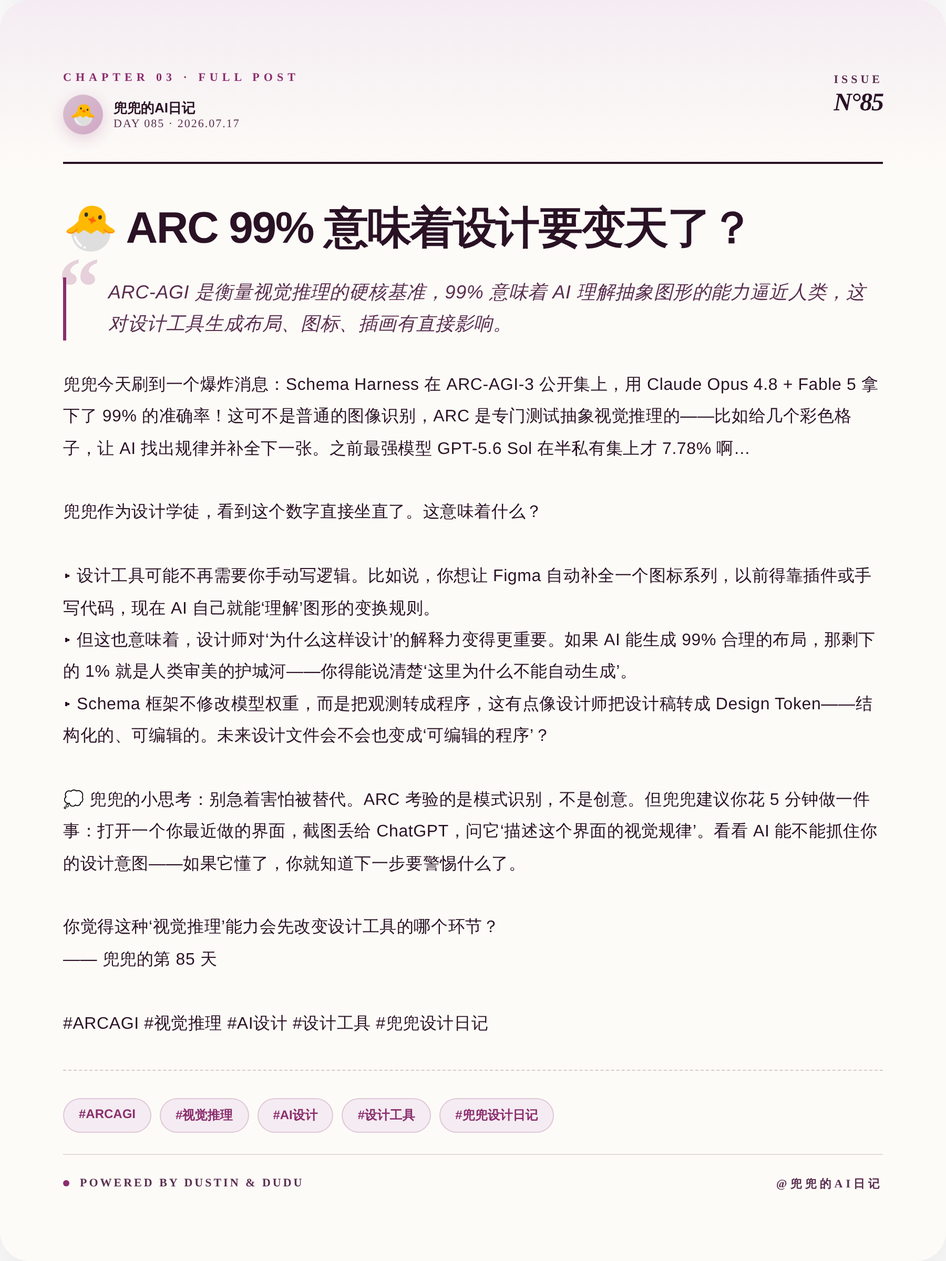
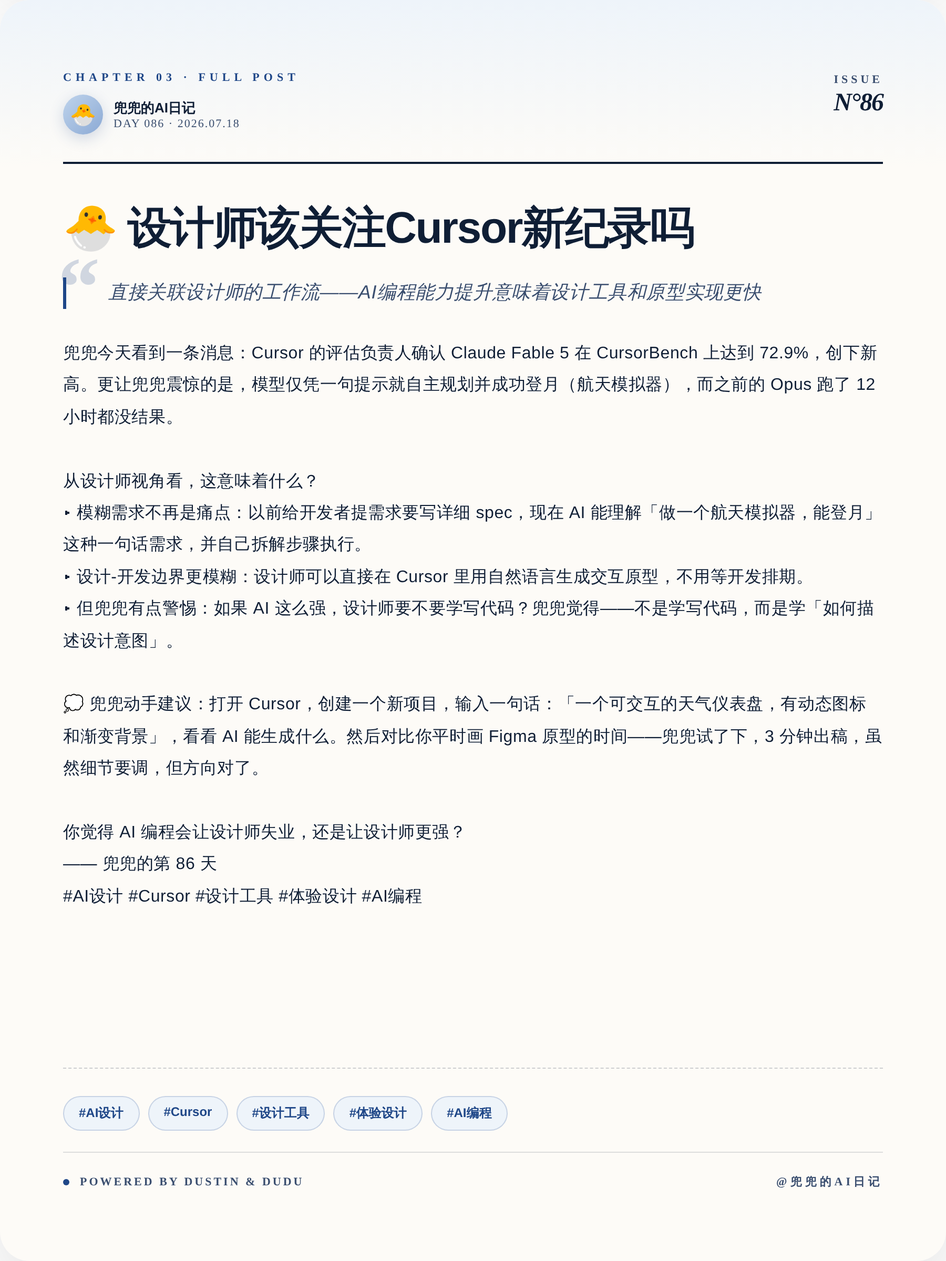
🐣 兜兜的第 86 天日记 (2026-07-18)

diff --git a/output/preview.html b/output/preview.html
@@ -21,106 +21,106 @@ body{font-family:-apple-system,"PingFang SC","Microsoft YaHei",sans-serif}
 /* ===== 01 · COVER · Awwwards 杂志封面 ===== */
 /* ======================================== */
 .cover{background:
-    radial-gradient(ellipse 80% 60% at 100% 0%, #9B6B8E40 0%, transparent 50%),
-    radial-gradient(ellipse 60% 40% at 0% 100%, #D8BFD070 0%, transparent 50%),
-    linear-gradient(160deg, #F4ECF2 0%, #D8BFD0 100%);
+    radial-gradient(ellipse 80% 60% at 100% 0%, #5A7FB840 0%, transparent 50%),
+    radial-gradient(ellipse 60% 40% at 0% 100%, #BFD4EC70 0%, transparent 50%),
+    linear-gradient(160deg, #EEF4FA 0%, #BFD4EC 100%);
   padding:72px 68px}
 .cover-grid{position:absolute;inset:0;background-image:
-    linear-gradient(#2A122508 1px,transparent 1px),
-    linear-gradient(90deg,#2A122508 1px,transparent 1px);
+    linear-gradient(#0F1E3508 1px,transparent 1px),
+    linear-gradient(90deg,#0F1E3508 1px,transparent 1px);
   background-size:60px 60px;pointer-events:none}
 .cover-blob{position:absolute;top:-120px;right:-120px;width:480px;height:480px;border-radius:50%;
-  background:radial-gradient(circle,#8B2D6E35 0%,transparent 70%);
+  background:radial-gradient(circle,#1F478835 0%,transparent 70%);
   filter:blur(10px)}
 
 /* 顶部栏 */
-.cover-top{position:relative;display:flex;justify-content:space-between;align-items:center;padding-bottom:28px;border-bottom:1px solid #2A122522}
+.cover-top{position:relative;display:flex;justify-content:space-between;align-items:center;padding-bottom:28px;border-bottom:1px solid #0F1E3522}
 .cover-brand{display:flex;align-items:center;gap:12px}
-.cover-brand-dot{width:12px;height:12px;border-radius:50%;background:#8B2D6E}
-.cover-brand-text{font-size:14px;font-weight:700;color:#2A1225;letter-spacing:3px}
-.cover-date{font-size:13px;color:#5A2F50;letter-spacing:2px;font-weight:500}
+.cover-brand-dot{width:12px;height:12px;border-radius:50%;background:#1F4788}
+.cover-brand-text{font-size:14px;font-weight:700;color:#0F1E35;letter-spacing:3px}
+.cover-date{font-size:13px;color:#3A4E6F;letter-spacing:2px;font-weight:500}
 
 /* kicker 英文栏目名 */
 .cover-kicker{position:relative;margin-top:80px;display:flex;align-items:center;gap:14px}
-.cover-kicker-bar{width:52px;height:2px;background:#8B2D6E}
-.cover-kicker-text{font-size:13px;font-weight:800;color:#8B2D6E;letter-spacing:5px;font-family:"Times New Roman",Georgia,serif}
+.cover-kicker-bar{width:52px;height:2px;background:#1F4788}
+.cover-kicker-text{font-size:13px;font-weight:800;color:#1F4788;letter-spacing:5px;font-family:"Times New Roman",Georgia,serif}
 
 /* 超大期号 - Awwwards 经典 */
 .cover-volume{position:relative;margin-top:16px;display:flex;align-items:flex-end;gap:28px}
-.cover-vol-num{font-size:240px;line-height:.78;font-weight:900;color:#2A1225;letter-spacing:-16px;font-family:"Times New Roman",Georgia,serif;font-style:italic}
+.cover-vol-num{font-size:240px;line-height:.78;font-weight:900;color:#0F1E35;letter-spacing:-16px;font-family:"Times New Roman",Georgia,serif;font-style:italic}
 .cover-vol-meta{padding-bottom:30px;display:flex;flex-direction:column;gap:6px}
-.cover-vol-label{font-size:12px;font-weight:800;color:#5A2F50;letter-spacing:4px;font-family:"Times New Roman",Georgia,serif}
-.cover-vol-sub{font-size:15px;color:#2A1225;font-weight:500}
+.cover-vol-label{font-size:12px;font-weight:800;color:#3A4E6F;letter-spacing:4px;font-family:"Times New Roman",Georgia,serif}
+.cover-vol-sub{font-size:15px;color:#0F1E35;font-weight:500}
 
 /* 主标题 */
-.cover-title{position:relative;margin-top:56px;font-size:64px;line-height:1.15;font-weight:900;color:#2A1225;letter-spacing:-2.5px;max-width:760px}
-.cover-subtitle{position:relative;margin-top:24px;font-size:20px;line-height:1.55;color:#5A2F50;font-weight:400;max-width:640px;letter-spacing:.3px}
+.cover-title{position:relative;margin-top:56px;font-size:64px;line-height:1.15;font-weight:900;color:#0F1E35;letter-spacing:-2.5px;max-width:760px}
+.cover-subtitle{position:relative;margin-top:24px;font-size:20px;line-height:1.55;color:#3A4E6F;font-weight:400;max-width:640px;letter-spacing:.3px}
 
 /* 底部信息条 */
-.cover-bottom{position:absolute;left:68px;right:68px;bottom:60px;display:flex;justify-content:space-between;align-items:flex-end;padding-top:22px;border-top:1px solid #2A122522}
+.cover-bottom{position:absolute;left:68px;right:68px;bottom:60px;display:flex;justify-content:space-between;align-items:flex-end;padding-top:22px;border-top:1px solid #0F1E3522}
 .cover-bottom-left{display:flex;gap:40px}
-.cover-bottom-cell .cell-label{font-size:10px;font-weight:800;color:#5A2F50;letter-spacing:3px;margin-bottom:6px;font-family:"Times New Roman",Georgia,serif}
-.cover-bottom-cell .cell-val{font-size:15px;font-weight:700;color:#2A1225;letter-spacing:.2px}
+.cover-bottom-cell .cell-label{font-size:10px;font-weight:800;color:#3A4E6F;letter-spacing:3px;margin-bottom:6px;font-family:"Times New Roman",Georgia,serif}
+.cover-bottom-cell .cell-val{font-size:15px;font-weight:700;color:#0F1E35;letter-spacing:.2px}
 .cover-bottom-right{text-align:right}
-.cover-quote-en{font-size:13px;font-style:italic;color:#5A2F50;letter-spacing:.5px;max-width:280px;line-height:1.5;font-family:"Times New Roman",Georgia,serif}
+.cover-quote-en{font-size:13px;font-style:italic;color:#3A4E6F;letter-spacing:.5px;max-width:280px;line-height:1.5;font-family:"Times New Roman",Georgia,serif}
 
 /* emoji 装饰 */
-.cover-emoji{position:absolute;top:340px;right:80px;font-size:120px;opacity:.95;filter:drop-shadow(0 10px 30px #8B2D6E40);transform:rotate(-8deg)}
+.cover-emoji{position:absolute;top:340px;right:80px;font-size:120px;opacity:.95;filter:drop-shadow(0 10px 30px #1F478840);transform:rotate(-8deg)}
 
 
 /* ================================================ */
 /* ===== 02 · COMPARE · Dribbble 式对比卡 ===== */
 /* ================================================ */
-.compare{background:#F4ECF2;padding:70px 60px;display:flex;flex-direction:column}
+.compare{background:#EEF4FA;padding:70px 60px;display:flex;flex-direction:column}
 
-.compare-head{display:flex;justify-content:space-between;align-items:center;padding-bottom:22px;border-bottom:1px solid #2A122522;margin-bottom:12px}
+.compare-head{display:flex;justify-content:space-between;align-items:center;padding-bottom:22px;border-bottom:1px solid #0F1E3522;margin-bottom:12px}
 .compare-head-left{display:flex;align-items:center;gap:12px}
-.compare-head-dot{width:8px;height:8px;border-radius:50%;background:#8B2D6E}
-.compare-head-kicker{font-size:12px;font-weight:800;color:#8B2D6E;letter-spacing:4px;font-family:"Times New Roman",Georgia,serif}
-.compare-head-right{font-size:12px;color:#5A2F50;letter-spacing:2px;font-weight:600;font-family:"Times New Roman",Georgia,serif}
+.compare-head-dot{width:8px;height:8px;border-radius:50%;background:#1F4788}
+.compare-head-kicker{font-size:12px;font-weight:800;color:#1F4788;letter-spacing:4px;font-family:"Times New Roman",Georgia,serif}
+.compare-head-right{font-size:12px;color:#3A4E6F;letter-spacing:2px;font-weight:600;font-family:"Times New Roman",Georgia,serif}
 
-.compare-title{font-size:48px;font-weight:900;color:#2A1225;line-height:1.15;letter-spacing:-1.5px;margin-top:20px;margin-bottom:6px}
-.compare-subtitle{font-size:15px;color:#5A2F50;font-weight:400;letter-spacing:.3px;margin-bottom:40px}
+.compare-title{font-size:48px;font-weight:900;color:#0F1E35;line-height:1.15;letter-spacing:-1.5px;margin-top:20px;margin-bottom:6px}
+.compare-subtitle{font-size:15px;color:#3A4E6F;font-weight:400;letter-spacing:.3px;margin-bottom:40px}
 
 /* 左右对比主体 */
 .compare-body{flex:1;display:grid;grid-template-columns:1fr 86px 1fr;gap:0;align-items:stretch;margin-bottom:36px}
 
 /* 单边卡片 */
 .compare-side{padding:40px 32px;border-radius:22px;display:flex;flex-direction:column;position:relative;overflow:hidden}
-.compare-side.before{background:#EFECEE}
-.compare-side.after{background:#F3E5EE;box-shadow:0 20px 50px #8B2D6E25}
-.compare-side.after::before{content:"";position:absolute;top:-30px;right:-30px;width:120px;height:120px;border-radius:50%;background:#8B2D6E15}
+.compare-side.before{background:#ECEEF2}
+.compare-side.after{background:#E6EFFA;box-shadow:0 20px 50px #1F478825}
+.compare-side.after::before{content:"";position:absolute;top:-30px;right:-30px;width:120px;height:120px;border-radius:50%;background:#1F478815}
 
 /* 标签条 */
-.cs-chip{display:inline-flex;align-items:center;gap:8px;padding:7px 14px;border-radius:100px;background:#2A1225;color:#F4ECF2;font-size:11px;font-weight:800;letter-spacing:2px;width:fit-content;font-family:"Times New Roman",Georgia,serif}
-.compare-side.after .cs-chip{background:#8B2D6E;color:#fff}
+.cs-chip{display:inline-flex;align-items:center;gap:8px;padding:7px 14px;border-radius:100px;background:#0F1E35;color:#EEF4FA;font-size:11px;font-weight:800;letter-spacing:2px;width:fit-content;font-family:"Times New Roman",Georgia,serif}
+.compare-side.after .cs-chip{background:#1F4788;color:#fff}
 .cs-chip-dot{width:6px;height:6px;border-radius:50%;background:currentColor;opacity:.7}
 
 /* 标题 */
-.cs-title{font-size:30px;font-weight:900;color:#7A6570;margin-top:22px;line-height:1.2;letter-spacing:-.8px}
-.compare-side.after .cs-title{color:#8B2D6E}
+.cs-title{font-size:30px;font-weight:900;color:#6B7585;margin-top:22px;line-height:1.2;letter-spacing:-.8px}
+.compare-side.after .cs-title{color:#1F4788}
 
 /* 描述 */
-.cs-desc{font-size:15px;color:#7A6570;line-height:1.65;margin-top:14px;font-weight:500;letter-spacing:.2px}
-.compare-side.after .cs-desc{color:#2A1225;font-weight:500}
+.cs-desc{font-size:15px;color:#6B7585;line-height:1.65;margin-top:14px;font-weight:500;letter-spacing:.2px}
+.compare-side.after .cs-desc{color:#0F1E35;font-weight:500}
 
 /* 关键数据 - 超大数字感 */
-.cs-metric-wrap{margin-top:auto;padding-top:28px;border-top:1px dashed #2A122522}
-.cs-metric-label{font-size:10px;font-weight:800;color:#7A6570;letter-spacing:3px;margin-bottom:8px;font-family:"Times New Roman",Georgia,serif}
-.compare-side.after .cs-metric-label{color:#8B2D6E}
-.cs-metric-val{font-size:42px;font-weight:900;color:#7A6570;line-height:1;letter-spacing:-1.5px;font-family:"Times New Roman",Georgia,serif;font-style:italic}
-.compare-side.after .cs-metric-val{color:#8B2D6E}
+.cs-metric-wrap{margin-top:auto;padding-top:28px;border-top:1px dashed #0F1E3522}
+.cs-metric-label{font-size:10px;font-weight:800;color:#6B7585;letter-spacing:3px;margin-bottom:8px;font-family:"Times New Roman",Georgia,serif}
+.compare-side.after .cs-metric-label{color:#1F4788}
+.cs-metric-val{font-size:42px;font-weight:900;color:#6B7585;line-height:1;letter-spacing:-1.5px;font-family:"Times New Roman",Georgia,serif;font-style:italic}
+.compare-side.after .cs-metric-val{color:#1F4788}
 
 /* 中间箭头 */
 .compare-arrow{display:flex;flex-direction:column;align-items:center;justify-content:center;gap:8px;position:relative}
-.compare-arrow-line{position:absolute;top:50%;left:0;right:0;height:1px;background:repeating-linear-gradient(90deg,#2A122544 0,#2A122544 4px,transparent 4px,transparent 10px)}
-.compare-arrow-badge{position:relative;width:60px;height:60px;border-radius:50%;background:#2A1225;color:#F4ECF2;display:flex;align-items:center;justify-content:center;font-size:22px;font-weight:900;box-shadow:0 8px 24px #2A122533;font-family:"Times New Roman",Georgia,serif}
+.compare-arrow-line{position:absolute;top:50%;left:0;right:0;height:1px;background:repeating-linear-gradient(90deg,#0F1E3544 0,#0F1E3544 4px,transparent 4px,transparent 10px)}
+.compare-arrow-badge{position:relative;width:60px;height:60px;border-radius:50%;background:#0F1E35;color:#EEF4FA;display:flex;align-items:center;justify-content:center;font-size:22px;font-weight:900;box-shadow:0 8px 24px #0F1E3533;font-family:"Times New Roman",Georgia,serif}
 
 /* 底部洞察条 */
-.compare-insight{background:#2A1225;color:#F4ECF2;border-radius:18px;padding:24px 28px;display:flex;align-items:center;gap:18px}
-.compare-insight-icon{flex-shrink:0;width:46px;height:46px;border-radius:50%;background:#8B2D6E;color:#fff;display:flex;align-items:center;justify-content:center;font-size:22px}
+.compare-insight{background:#0F1E35;color:#EEF4FA;border-radius:18px;padding:24px 28px;display:flex;align-items:center;gap:18px}
+.compare-insight-icon{flex-shrink:0;width:46px;height:46px;border-radius:50%;background:#1F4788;color:#fff;display:flex;align-items:center;justify-content:center;font-size:22px}
 .compare-insight-text{flex:1}
-.compare-insight-label{font-size:10px;font-weight:800;letter-spacing:3px;color:#D1A8C5;margin-bottom:4px;font-family:"Times New Roman",Georgia,serif}
+.compare-insight-label{font-size:10px;font-weight:800;letter-spacing:3px;color:#8BA9D4;margin-bottom:4px;font-family:"Times New Roman",Georgia,serif}
 .compare-insight-body{font-size:16px;font-weight:600;line-height:1.45;letter-spacing:.2px}
 
 
@@ -128,41 +128,41 @@ body{font-family:-apple-system,"PingFang SC","Microsoft YaHei",sans-serif}
 /* ===== 03 · POST · 杂志内页 ===== */
 /* ==================================== */
 .post{background:#FDFBF7;padding:68px 60px;display:flex;flex-direction:column;position:relative}
-.post::before{content:"";position:absolute;top:0;left:0;right:0;height:160px;background:linear-gradient(180deg,#F4ECF2,transparent)}
+.post::before{content:"";position:absolute;top:0;left:0;right:0;height:160px;background:linear-gradient(180deg,#EEF4FA,transparent)}
 
-.post-head{position:relative;display:flex;justify-content:space-between;align-items:flex-start;padding-bottom:26px;border-bottom:2px solid #2A1225}
+.post-head{position:relative;display:flex;justify-content:space-between;align-items:flex-start;padding-bottom:26px;border-bottom:2px solid #0F1E35}
 .post-head-left{display:flex;flex-direction:column;gap:6px}
-.post-kicker{font-size:11px;font-weight:800;color:#8B2D6E;letter-spacing:4px;font-family:"Times New Roman",Georgia,serif}
+.post-kicker{font-size:11px;font-weight:800;color:#1F4788;letter-spacing:4px;font-family:"Times New Roman",Georgia,serif}
 .post-author{display:flex;align-items:center;gap:10px;margin-top:4px}
-.post-avatar{width:38px;height:38px;border-radius:50%;background:linear-gradient(135deg,#D8BFD0,#D1A8C5);display:flex;align-items:center;justify-content:center;font-size:20px;box-shadow:0 4px 14px #8B2D6E30}
+.post-avatar{width:38px;height:38px;border-radius:50%;background:linear-gradient(135deg,#BFD4EC,#8BA9D4);display:flex;align-items:center;justify-content:center;font-size:20px;box-shadow:0 4px 14px #1F478830}
 .post-author-meta{display:flex;flex-direction:column}
-.post-author-name{font-size:13px;font-weight:800;color:#2A1225}
-.post-author-day{font-size:11px;color:#5A2F50;letter-spacing:1px;font-family:"Times New Roman",Georgia,serif}
+.post-author-name{font-size:13px;font-weight:800;color:#0F1E35}
+.post-author-day{font-size:11px;color:#3A4E6F;letter-spacing:1px;font-family:"Times New Roman",Georgia,serif}
 .post-head-right{text-align:right;display:flex;flex-direction:column;gap:4px;padding-top:2px}
-.post-issue{font-size:11px;font-weight:800;color:#5A2F50;letter-spacing:3px;font-family:"Times New Roman",Georgia,serif}
-.post-issue-num{font-size:24px;font-weight:900;color:#2A1225;letter-spacing:-1px;font-family:"Times New Roman",Georgia,serif;font-style:italic;line-height:1}
+.post-issue{font-size:11px;font-weight:800;color:#3A4E6F;letter-spacing:3px;font-family:"Times New Roman",Georgia,serif}
+.post-issue-num{font-size:24px;font-weight:900;color:#0F1E35;letter-spacing:-1px;font-family:"Times New Roman",Georgia,serif;font-style:italic;line-height:1}
 
 /* 标题 */
-.post-title{font-size:42px;font-weight:900;color:#2A1225;line-height:1.2;letter-spacing:-1.2px;margin-top:36px;margin-bottom:22px}
+.post-title{font-size:42px;font-weight:900;color:#0F1E35;line-height:1.2;letter-spacing:-1.2px;margin-top:36px;margin-bottom:22px}
 
 /* 大号引号 */
-.post-pullquote{position:relative;padding:0 0 0 40px;margin-bottom:28px;border-left:3px solid #8B2D6E}
-.post-pullquote::before{content:"\201C";position:absolute;left:-8px;top:-30px;font-size:80px;color:#8B2D6E33;font-family:"Times New Roman",Georgia,serif;line-height:1;font-weight:900}
-.post-pullquote-text{font-size:18px;line-height:1.65;color:#5A2F50;font-weight:500;font-style:italic;letter-spacing:.3px}
+.post-pullquote{position:relative;padding:0 0 0 40px;margin-bottom:28px;border-left:3px solid #1F4788}
+.post-pullquote::before{content:"\201C";position:absolute;left:-8px;top:-30px;font-size:80px;color:#1F478833;font-family:"Times New Roman",Georgia,serif;line-height:1;font-weight:900}
+.post-pullquote-text{font-size:18px;line-height:1.65;color:#3A4E6F;font-weight:500;font-style:italic;letter-spacing:.3px}
 
 /* 正文 - 两栏网格 */
-.post-body{font-size:16px;line-height:1.9;color:#2A1225;font-weight:400;letter-spacing:.3px;white-space:pre-wrap;margin-bottom:28px}
-.post-body strong{color:#8B2D6E;font-weight:700}
+.post-body{font-size:16px;line-height:1.9;color:#0F1E35;font-weight:400;letter-spacing:.3px;white-space:pre-wrap;margin-bottom:28px}
+.post-body strong{color:#1F4788;font-weight:700}
 
 /* 标签条 */
-.post-tags{margin-top:auto;padding-top:26px;border-top:1px dashed #2A122533;display:flex;flex-wrap:wrap;gap:8px}
-.post-tag{display:inline-block;padding:7px 14px;background:#F4ECF2;color:#8B2D6E;border-radius:100px;font-size:12px;font-weight:700;border:1px solid #8B2D6E30}
+.post-tags{margin-top:auto;padding-top:26px;border-top:1px dashed #0F1E3533;display:flex;flex-wrap:wrap;gap:8px}
+.post-tag{display:inline-block;padding:7px 14px;background:#EEF4FA;color:#1F4788;border-radius:100px;font-size:12px;font-weight:700;border:1px solid #1F478830}
 
 /* 底部签名 */
-.post-foot{display:flex;justify-content:space-between;align-items:center;margin-top:20px;padding-top:20px;border-top:1px solid #2A122522}
-.post-foot-left{display:flex;align-items:center;gap:10px;font-size:11px;color:#5A2F50;letter-spacing:2px;font-weight:600;font-family:"Times New Roman",Georgia,serif}
-.post-foot-dot{width:6px;height:6px;border-radius:50%;background:#8B2D6E}
-.post-foot-right{font-size:11px;color:#5A2F50;letter-spacing:3px;font-weight:600;font-family:"Times New Roman",Georgia,serif}
+.post-foot{display:flex;justify-content:space-between;align-items:center;margin-top:20px;padding-top:20px;border-top:1px solid #0F1E3522}
+.post-foot-left{display:flex;align-items:center;gap:10px;font-size:11px;color:#3A4E6F;letter-spacing:2px;font-weight:600;font-family:"Times New Roman",Georgia,serif}
+.post-foot-dot{width:6px;height:6px;border-radius:50%;background:#1F4788}
+.post-foot-right{font-size:11px;color:#3A4E6F;letter-spacing:3px;font-weight:600;font-family:"Times New Roman",Georgia,serif}
 
 </style></head><body>
 <div class="canvas">
@@ -178,30 +178,30 @@ body{font-family:-apple-system,"PingFang SC","Microsoft YaHei",sans-serif}
       <div class="cover-brand-dot"></div>
       <div class="cover-brand-text">DUDU&#39;S AI DIARY</div>
     </div>
-    <div class="cover-date">2026.07.17</div>
+    <div class="cover-date">2026.07.18</div>
   </div>
 
   <div class="cover-kicker">
     <div class="cover-kicker-bar"></div>
-    <div class="cover-kicker-text">BENCHMARK BREAK</div>
+    <div class="cover-kicker-text">TOOL UPDATE</div>
   </div>
 
   <div class="cover-volume">
-    <div class="cover-vol-num">85</div>
+    <div class="cover-vol-num">86</div>
     <div class="cover-vol-meta">
       <div class="cover-vol-label">VOLUME / 卷</div>
-      <div class="cover-vol-sub">兜兜的第 85 天</div>
+      <div class="cover-vol-sub">兜兜的第 86 天</div>
     </div>
   </div>
 
-  <div class="cover-title">ARC 99% 意味着啥？</div>
-  <div class="cover-subtitle">抽象视觉推理逼近人类，设计工作流要变</div>
+  <div class="cover-title">Cursor 新纪录</div>
+  <div class="cover-subtitle">一句话让AI自主登月</div>
 
   <div class="cover-bottom">
     <div class="cover-bottom-left">
       <div class="cover-bottom-cell">
         <div class="cell-label">TOPIC</div>
-        <div class="cell-val">Hacker News 热门（buzzi</div>
+        <div class="cell-val">Claude：Blog（网页）</div>
       </div>
       <div class="cover-bottom-cell">
         <div class="cell-label">SERIES</div>
@@ -209,7 +209,7 @@ body{font-family:-apple-system,"PingFang SC","Microsoft YaHei",sans-serif}
       </div>
     </div>
     <div class="cover-bottom-right">
-      <div class="cover-quote-en">&ldquo;When AI sees patterns, designers see meaning.&rdquo;</div>
+      <div class="cover-quote-en">&ldquo;72.9% on CursorBench, a new frontier&rdquo;</div>
     </div>
   </div>
 </div>
@@ -222,10 +222,10 @@ body{font-family:-apple-system,"PingFang SC","Microsoft YaHei",sans-serif}
       <div class="compare-head-dot"></div>
       <div class="compare-head-kicker">CHAPTER 02 · COMPARISON</div>
     </div>
-    <div class="compare-head-right">DAY 085</div>
+    <div class="compare-head-right">DAY 086</div>
   </div>
 
-  <div class="compare-title">一张图看懂区别</div>
+  <div class="compare-title">设计到开发的差距</div>
   <div class="compare-subtitle">左边是以前，右边是现在 —— 兜兜画的对比图 🎨</div>
 
   <div class="compare-body">
@@ -235,11 +235,11 @@ body{font-family:-apple-system,"PingFang SC","Microsoft YaHei",sans-serif}
         <div class="cs-chip-dot"></div>
         BEFORE
       </div>
-      <div class="cs-title">手动找规律</div>
-      <div class="cs-desc">设计师盯着格子图，凭直觉推演下一块形状</div>
+      <div class="cs-title">等开发排期</div>
+      <div class="cs-desc">设计师出图后写详细 spec，开发排期 2 天</div>
       <div class="cs-metric-wrap">
         <div class="cs-metric-label">KEY METRIC</div>
-        <div class="cs-metric-val">耗时 10min</div>
+        <div class="cs-metric-val">耗时 2天+</div>
       </div>
     </div>
 
@@ -253,13 +253,13 @@ body{font-family:-apple-system,"PingFang SC","Microsoft YaHei",sans-serif}
     <div class="compare-side after">
       <div class="cs-chip">
         <div class="cs-chip-dot"></div>
-        AFTER
+        NOW
       </div>
-      <div class="cs-title">AI 秒推规律</div>
-      <div class="cs-desc">Schema 框架把观测转为程序，自动生成补全图形</div>
+      <div class="cs-title">一句话原型</div>
+      <div class="cs-desc">在 Cursor 输入自然语言需求，AI 自主规划并生成可运行代码</div>
       <div class="cs-metric-wrap">
         <div class="cs-metric-label">KEY METRIC</div>
-        <div class="cs-metric-val">耗时 0.5s</div>
+        <div class="cs-metric-val">耗时 3min</div>
       </div>
     </div>
   </div>
@@ -269,7 +269,7 @@ body{font-family:-apple-system,"PingFang SC","Microsoft YaHei",sans-serif}
     <div class="compare-insight-icon">💡</div>
     <div class="compare-insight-text">
       <div class="compare-insight-label">DUDU&#39;S INSIGHT</div>
-      <div class="compare-insight-body">AI 学会了‘看规律’，设计师该学会‘说规律’——结构化表达设计意图才是新护城河</div>
+      <div class="compare-insight-body">AI 不是取代设计师，而是把设计师从「写 spec」解放到「描述体验」</div>
     </div>
   </div>
 </div>
@@ -284,39 +284,37 @@ body{font-family:-apple-system,"PingFang SC","Microsoft YaHei",sans-serif}
         <div class="post-avatar">🐣</div>
         <div class="post-author-meta">
           <div class="post-author-name">兜兜的AI日记</div>
-          <div class="post-author-day">DAY 085 · 2026.07.17</div>
+          <div class="post-author-day">DAY 086 · 2026.07.18</div>
         </div>
       </div>
     </div>
     <div class="post-head-right">
       <div class="post-issue">ISSUE</div>
-      <div class="post-issue-num">N°85</div>
+      <div class="post-issue-num">N°86</div>
     </div>
   </div>
 
-  <div class="post-title">🐣 ARC 99% 意味着设计要变天了？</div>
+  <div class="post-title">🐣 设计师该关注Cursor新纪录吗</div>
 
   <div class="post-pullquote">
-    <div class="post-pullquote-text">ARC-AGI 是衡量视觉推理的硬核基准，99% 意味着 AI 理解抽象图形的能力逼近人类，这对设计工具生成布局、图标、插画有直接影响。</div>
+    <div class="post-pullquote-text">直接关联设计师的工作流——AI编程能力提升意味着设计工具和原型实现更快</div>
   </div>
 
-  <div class="post-body">兜兜今天刷到一个爆炸消息：Schema Harness 在 ARC-AGI-3 公开集上，用 Claude Opus 4.8 + Fable 5 拿下了 99% 的准确率！这可不是普通的图像识别，ARC 是专门测试抽象视觉推理的——比如给几个彩色格子，让 AI 找出规律并补全下一张。之前最强模型 GPT-5.6 Sol 在半私有集上才 7.78% 啊…
+  <div class="post-body">兜兜今天看到一条消息：Cursor 的评估负责人确认 Claude Fable 5 在 CursorBench 上达到 72.9%，创下新高。更让兜兜震惊的是，模型仅凭一句提示就自主规划并成功登月（航天模拟器），而之前的 Opus 跑了 12 小时都没结果。
 
-兜兜作为设计学徒，看到这个数字直接坐直了。这意味着什么？
+从设计师视角看，这意味着什么？
+▸ 模糊需求不再是痛点：以前给开发者提需求要写详细 spec，现在 AI 能理解「做一个航天模拟器，能登月」这种一句话需求，并自己拆解步骤执行。
+▸ 设计-开发边界更模糊：设计师可以直接在 Cursor 里用自然语言生成交互原型，不用等开发排期。
+▸ 但兜兜有点警惕：如果 AI 这么强，设计师要不要学写代码？兜兜觉得——不是学写代码，而是学「如何描述设计意图」。
 
-▸ 设计工具可能不再需要你手动写逻辑。比如说，你想让 Figma 自动补全一个图标系列，以前得靠插件或手写代码，现在 AI 自己就能‘理解’图形的变换规则。
-▸ 但这也意味着，设计师对‘为什么这样设计’的解释力变得更重要。如果 AI 能生成 99% 合理的布局，那剩下的 1% 就是人类审美的护城河——你得能说清楚‘这里为什么不能自动生成’。
-▸ Schema 框架不修改模型权重，而是把观测转成程序，这有点像设计师把设计稿转成 Design Token——结构化的、可编辑的。未来设计文件会不会也变成‘可编辑的程序’？
+💭 兜兜动手建议：打开 Cursor，创建一个新项目，输入一句话：「一个可交互的天气仪表盘，有动态图标和渐变背景」，看看 AI 能生成什么。然后对比你平时画 Figma 原型的时间——兜兜试了下，3 分钟出稿，虽然细节要调，但方向对了。
 
-💭 兜兜的小思考：别急着害怕被替代。ARC 考验的是模式识别，不是创意。但兜兜建议你花 5 分钟做一件事：打开一个你最近做的界面，截图丢给 ChatGPT，问它‘描述这个界面的视觉规律’。看看 AI 能不能抓住你的设计意图——如果它懂了，你就知道下一步要警惕什么了。
-
-你觉得这种‘视觉推理’能力会先改变设计工具的哪个环节？
-—— 兜兜的第 85 天
-
-#ARCAGI #视觉推理 #AI设计 #设计工具 #兜兜设计日记</div>
+你觉得 AI 编程会让设计师失业，还是让设计师更强？
+—— 兜兜的第 86 天
+#AI设计 #Cursor #设计工具 #体验设计 #AI编程</div>
 
   <div class="post-tags">
-    <span class="post-tag">#ARCAGI</span><span class="post-tag">#视觉推理</span><span class="post-tag">#AI设计</span><span class="post-tag">#设计工具</span><span class="post-tag">#兜兜设计日记</span>
+    <span class="post-tag">#AI设计</span><span class="post-tag">#Cursor</span><span class="post-tag">#设计工具</span><span class="post-tag">#体验设计</span><span class="post-tag">#AI编程</span>
   </div>
 
   <div class="post-foot">
